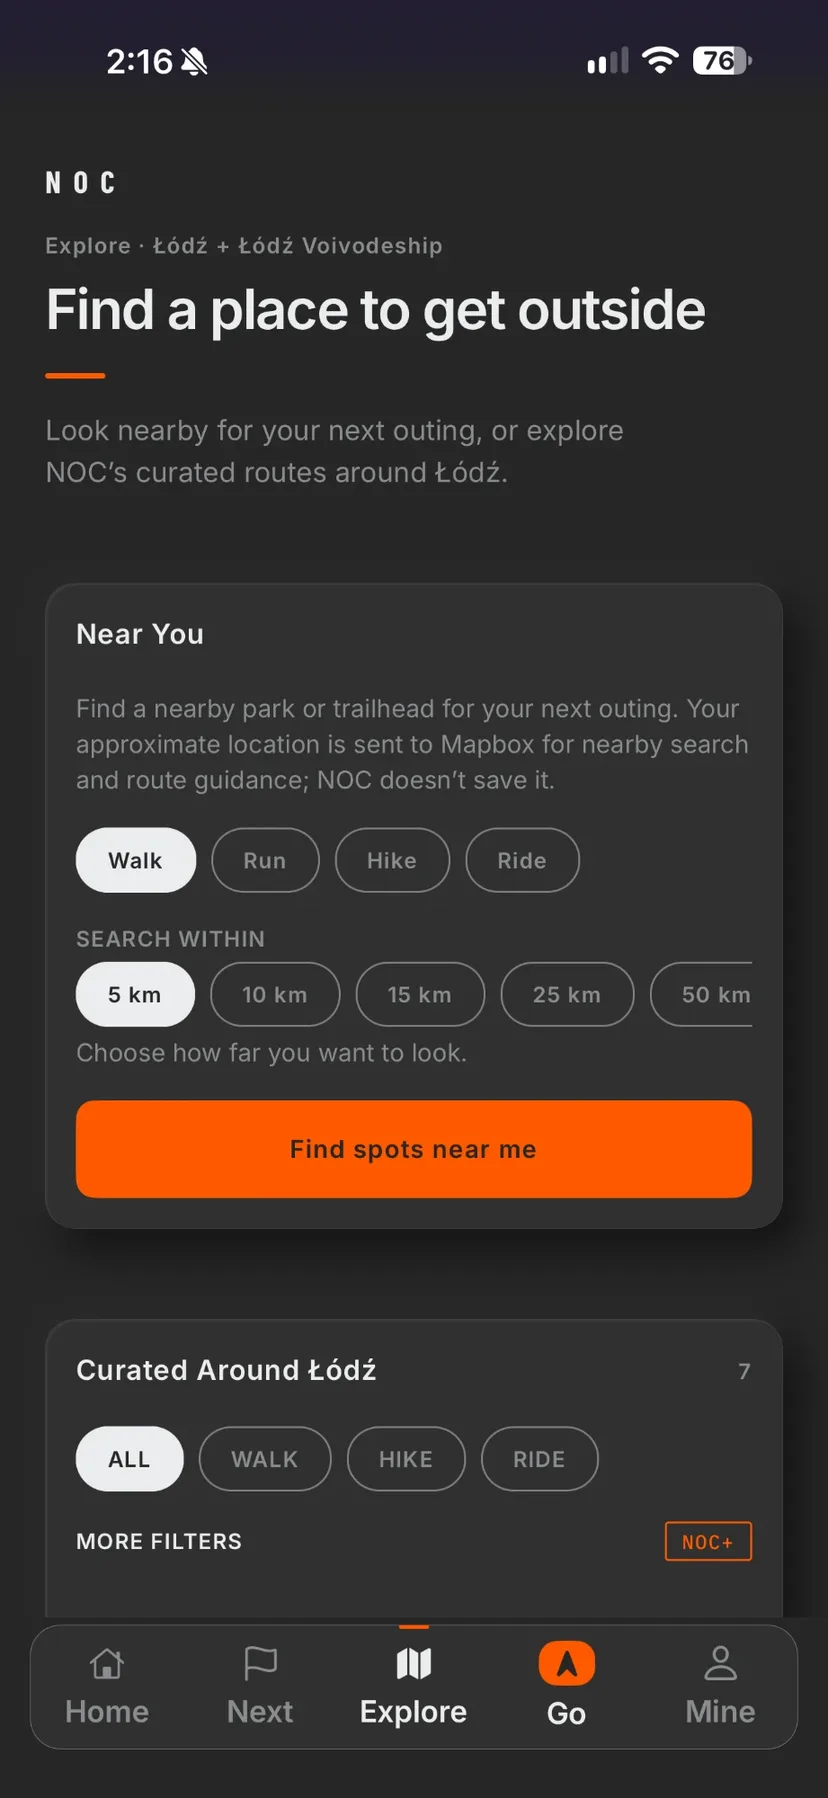
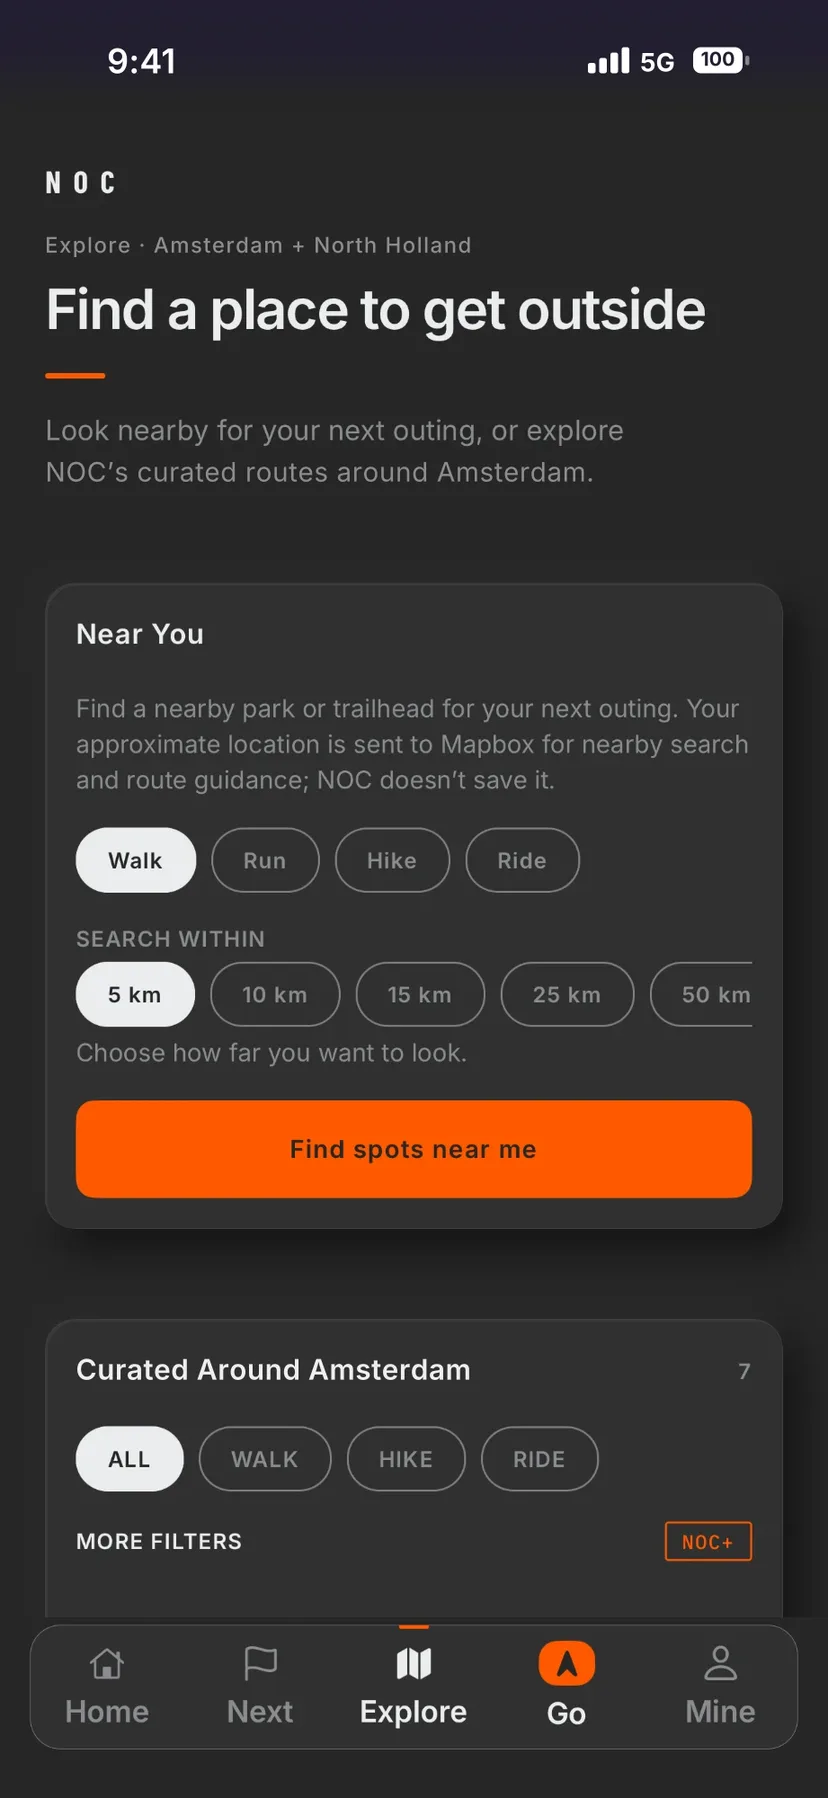
feat: product-shot app screens set in Amsterdam and Utrecht
Clean status bar on all five (9:41, full signal, 5G, 100%); Home says Good
morning; Next shows an Amstel route at 82% (16.4 of 20 km); Explore is
curated around Amsterdam; Mine is from Utrecht. Example data, redrawn in
the app's own font; descriptions updated to match.

diff --git a/src/data/app-screens.ts b/src/data/app-screens.ts
@@ -20,13 +20,13 @@ export const APP_SCREENS: AppScreen[] = [
     file: '2-next.webp',
     title: 'Next',
     caption: 'Pick your next first',
-    alt: 'The Next screen: "What will you do next?" with a chosen first, the Red Trail from Bedoń to Wiskitno, a 15 km hike, with progress towards it and a Go button.',
+    alt: 'The Next screen: "What will you do next?" with a chosen first, a 20 km hike along the Amstel from Amsterdam to Ouderkerk and back, 16.4 km best so far (82% of the way) and a Go button.',
   },
   {
     file: '3-explore.webp',
     title: 'Explore',
     caption: 'Find a place to get outside',
-    alt: 'The Explore screen: search nearby by activity (walk, run, hike, ride) and distance, and curated routes around Łódź.',
+    alt: 'The Explore screen: search nearby by activity (walk, run, hike, ride) and distance, and curated routes around Amsterdam.',
   },
   {
     file: '4-go.webp',
@@ -38,6 +38,6 @@ export const APP_SCREENS: AppScreen[] = [
     file: '5-mine.webp',
     title: 'Mine',
     caption: 'Your journal of firsts',
-    alt: 'The Mine screen: a profile with 64 adventures, 487.3 km, 21 firsts and 12 places, the chapter "Chasing firsts", and a journal with a 16.4 km hike that earned a first half-day hike.',
+    alt: 'The Mine screen: a profile from Utrecht with 64 adventures, 487.3 km, 21 firsts and 12 places, the chapter "Chasing firsts", and a journal with a 16.4 km hike near Amsterdam that earned a first half-day hike.',
   },
 ];
